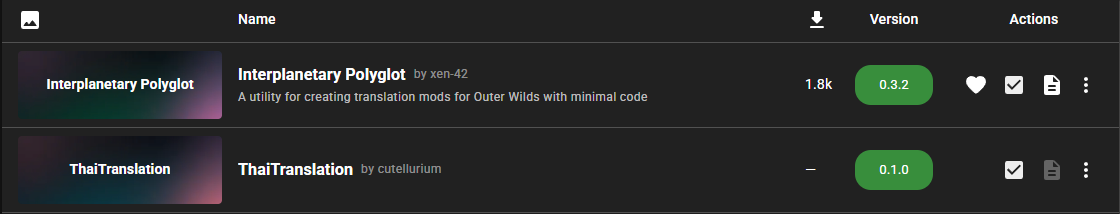
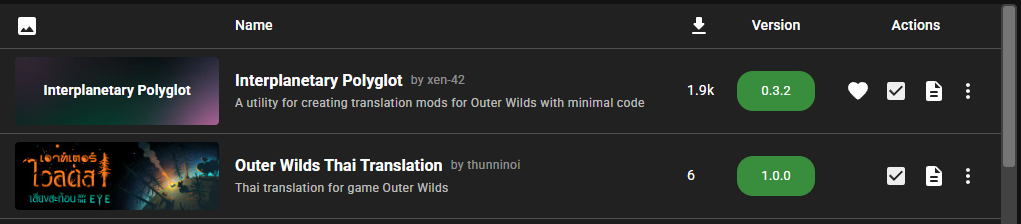
Update README!
Mod got approved! Go download! Yay!

diff --git a/README.md b/README.md
@@ -1,4 +1,5 @@
 ![logo](img/banner_dlc.png)
+[![Install Outer Wilds Thai Translation](https://img.shields.io/endpoint?url=https%3A%2F%2Fouterwildsmods.com%2Fapi%2Fthunninoi.ThaiTranslation%2Fbadge.json)](https://outerwildsmods.com/mods/outerwildsthaitranslation/)
 
  > For english and screenshots see below! (no spoilers)  
  > ตัวอย่างภาพหน้าจอ เลื่อนลงไปล่างสุด (ไม่มีสปอยล์)
@@ -52,7 +53,7 @@ Translate full game + DLC Echoes Of The Eyes
 ## Read before install
 
 Mod is coded to adjust character size and spacing to be compatible with Thai's character  
-**Recommend to use Thai language only if this mod is installed**  
+**Recommend to only use Thai language if this mod is installed**  
 
 
 ## Installation
@@ -70,7 +71,7 @@ Or contact me via Discord (thunninoi) or Twitter (@thunninoi)
 I'll fix it asap if i can! :D
 
 ## Known Issues
- - Sometimes the message will cut to new line before finish the word( I don't know how to fix this one, Unity already usually has saome problem with Thai language already and this is also a mod so it messed up a lot)
+ - Sometimes the message will cut to new line before finish the word( I don't know how to fix this one, Unity already usually has some problem with Thai language already and this is also a game modification so it messed up a lot)
   - Certain easter egg involving mysterious scroll will display incorrectly (Maybe fixable by using font that support ASCII art)
 
 
